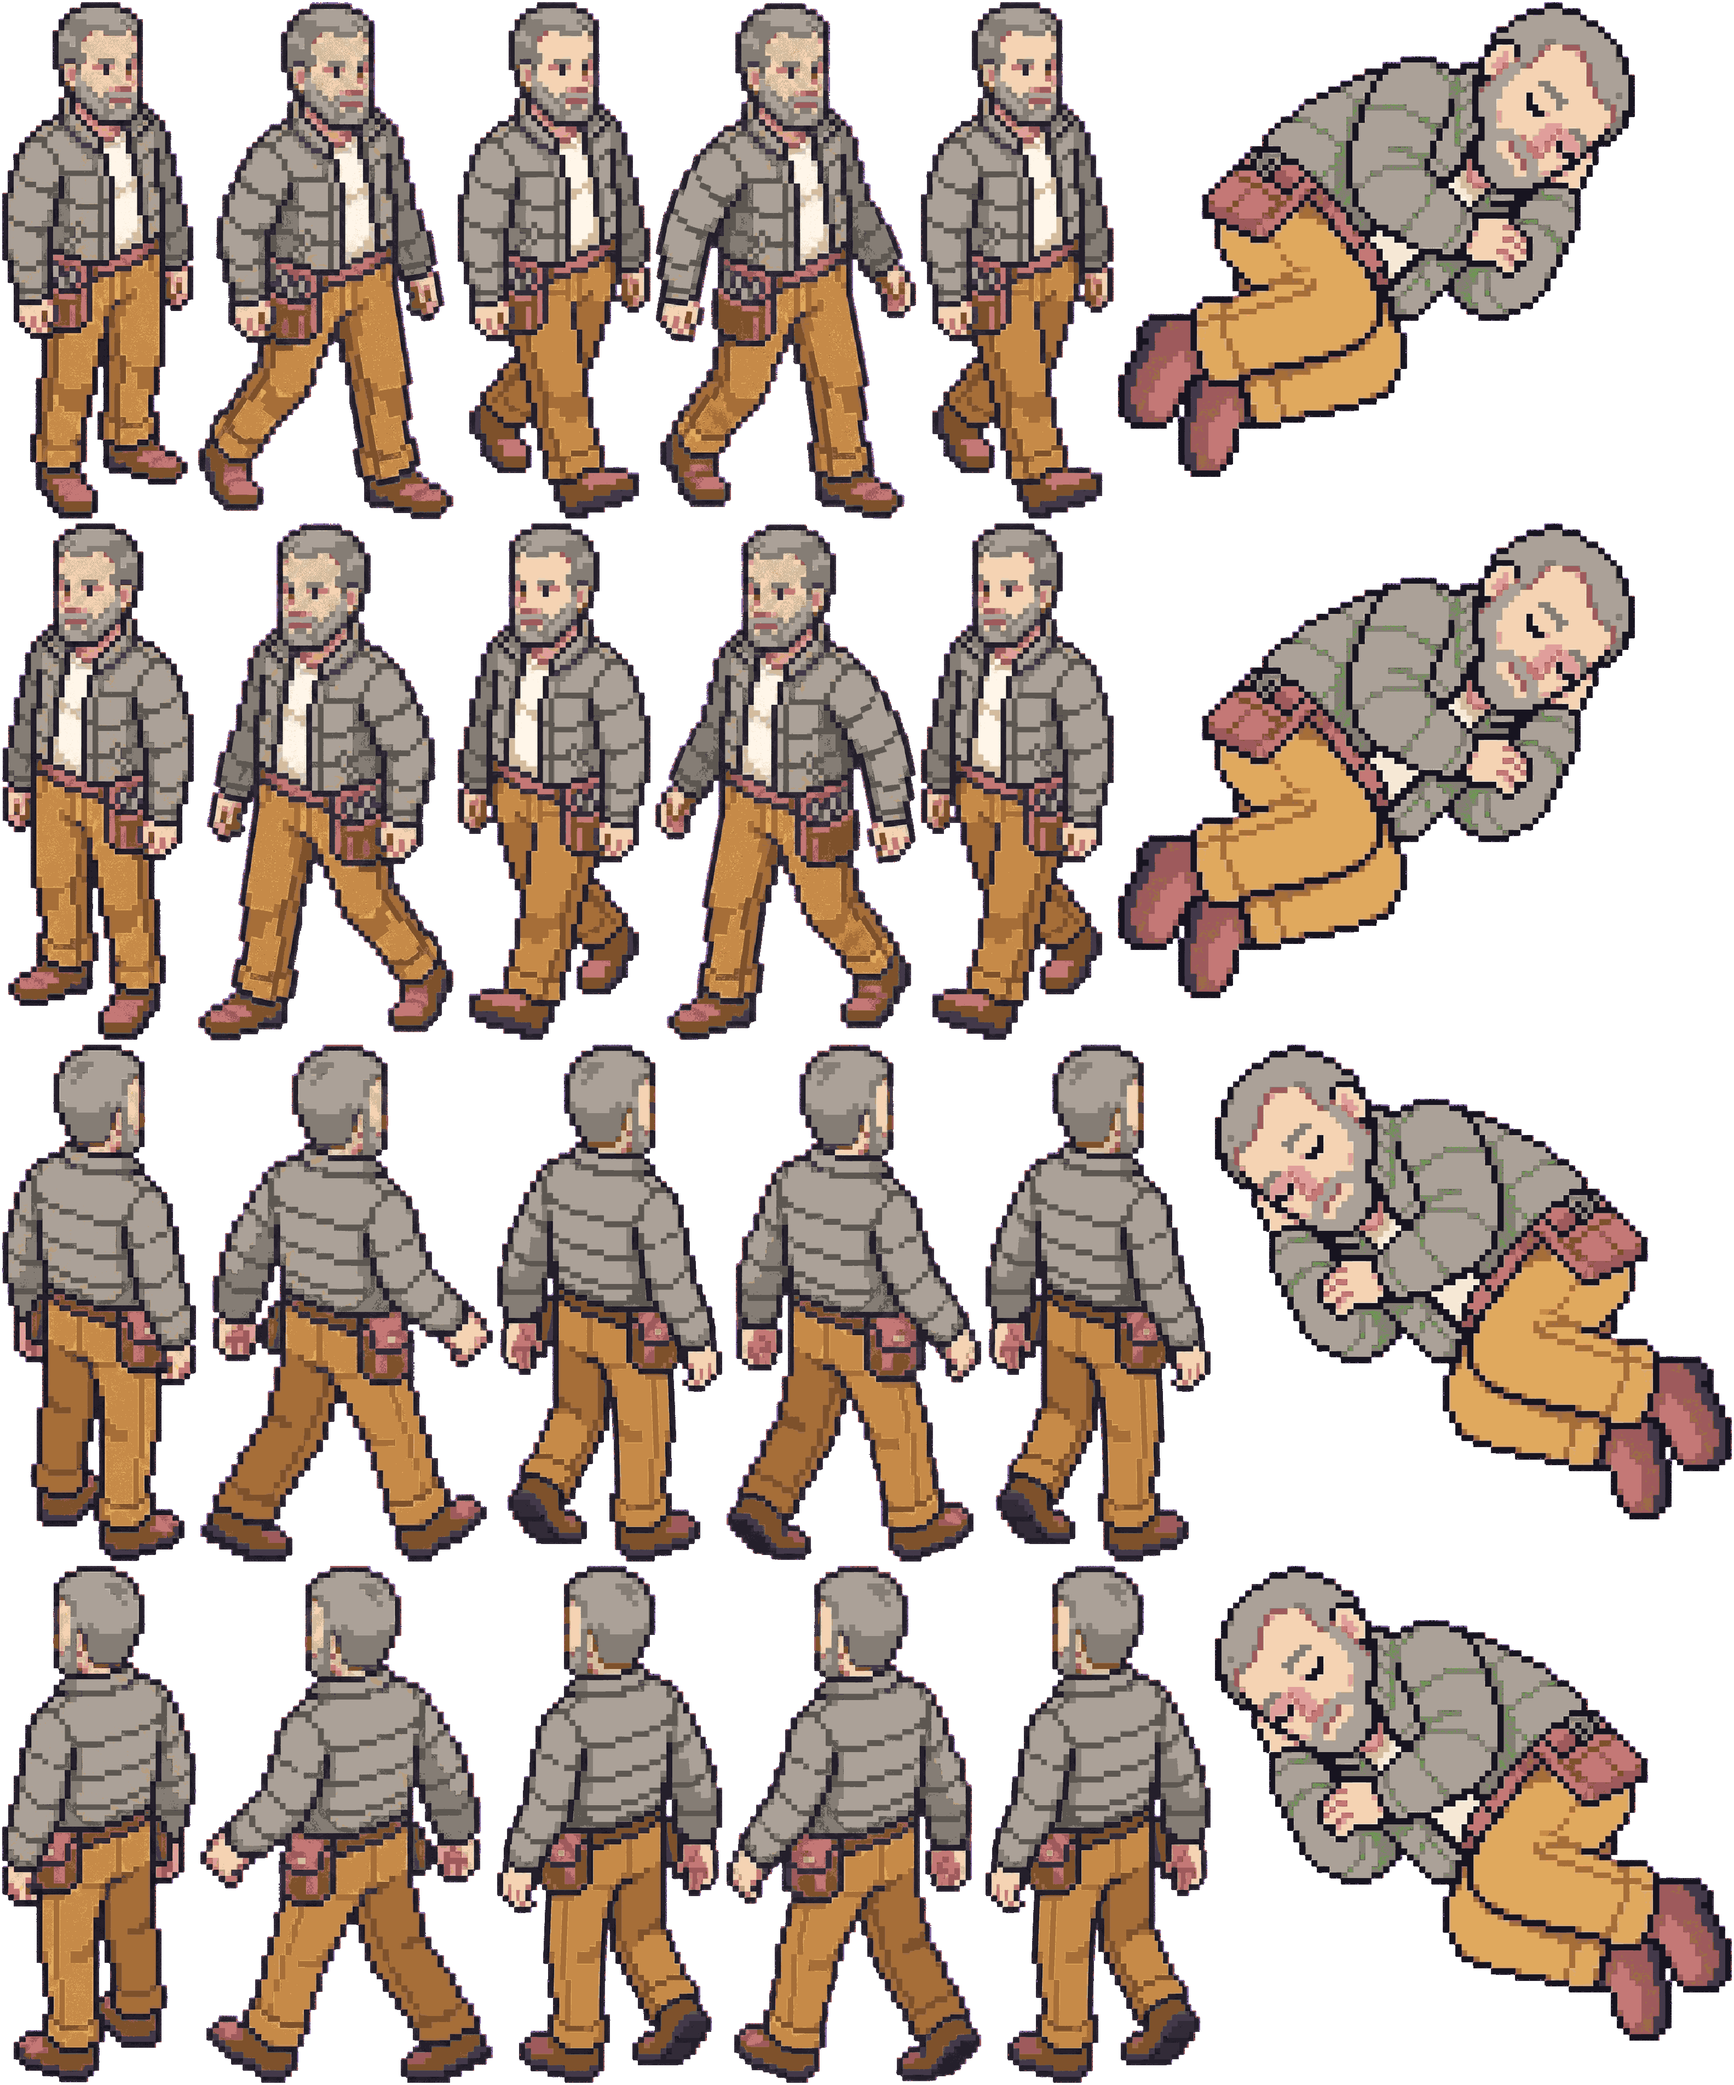
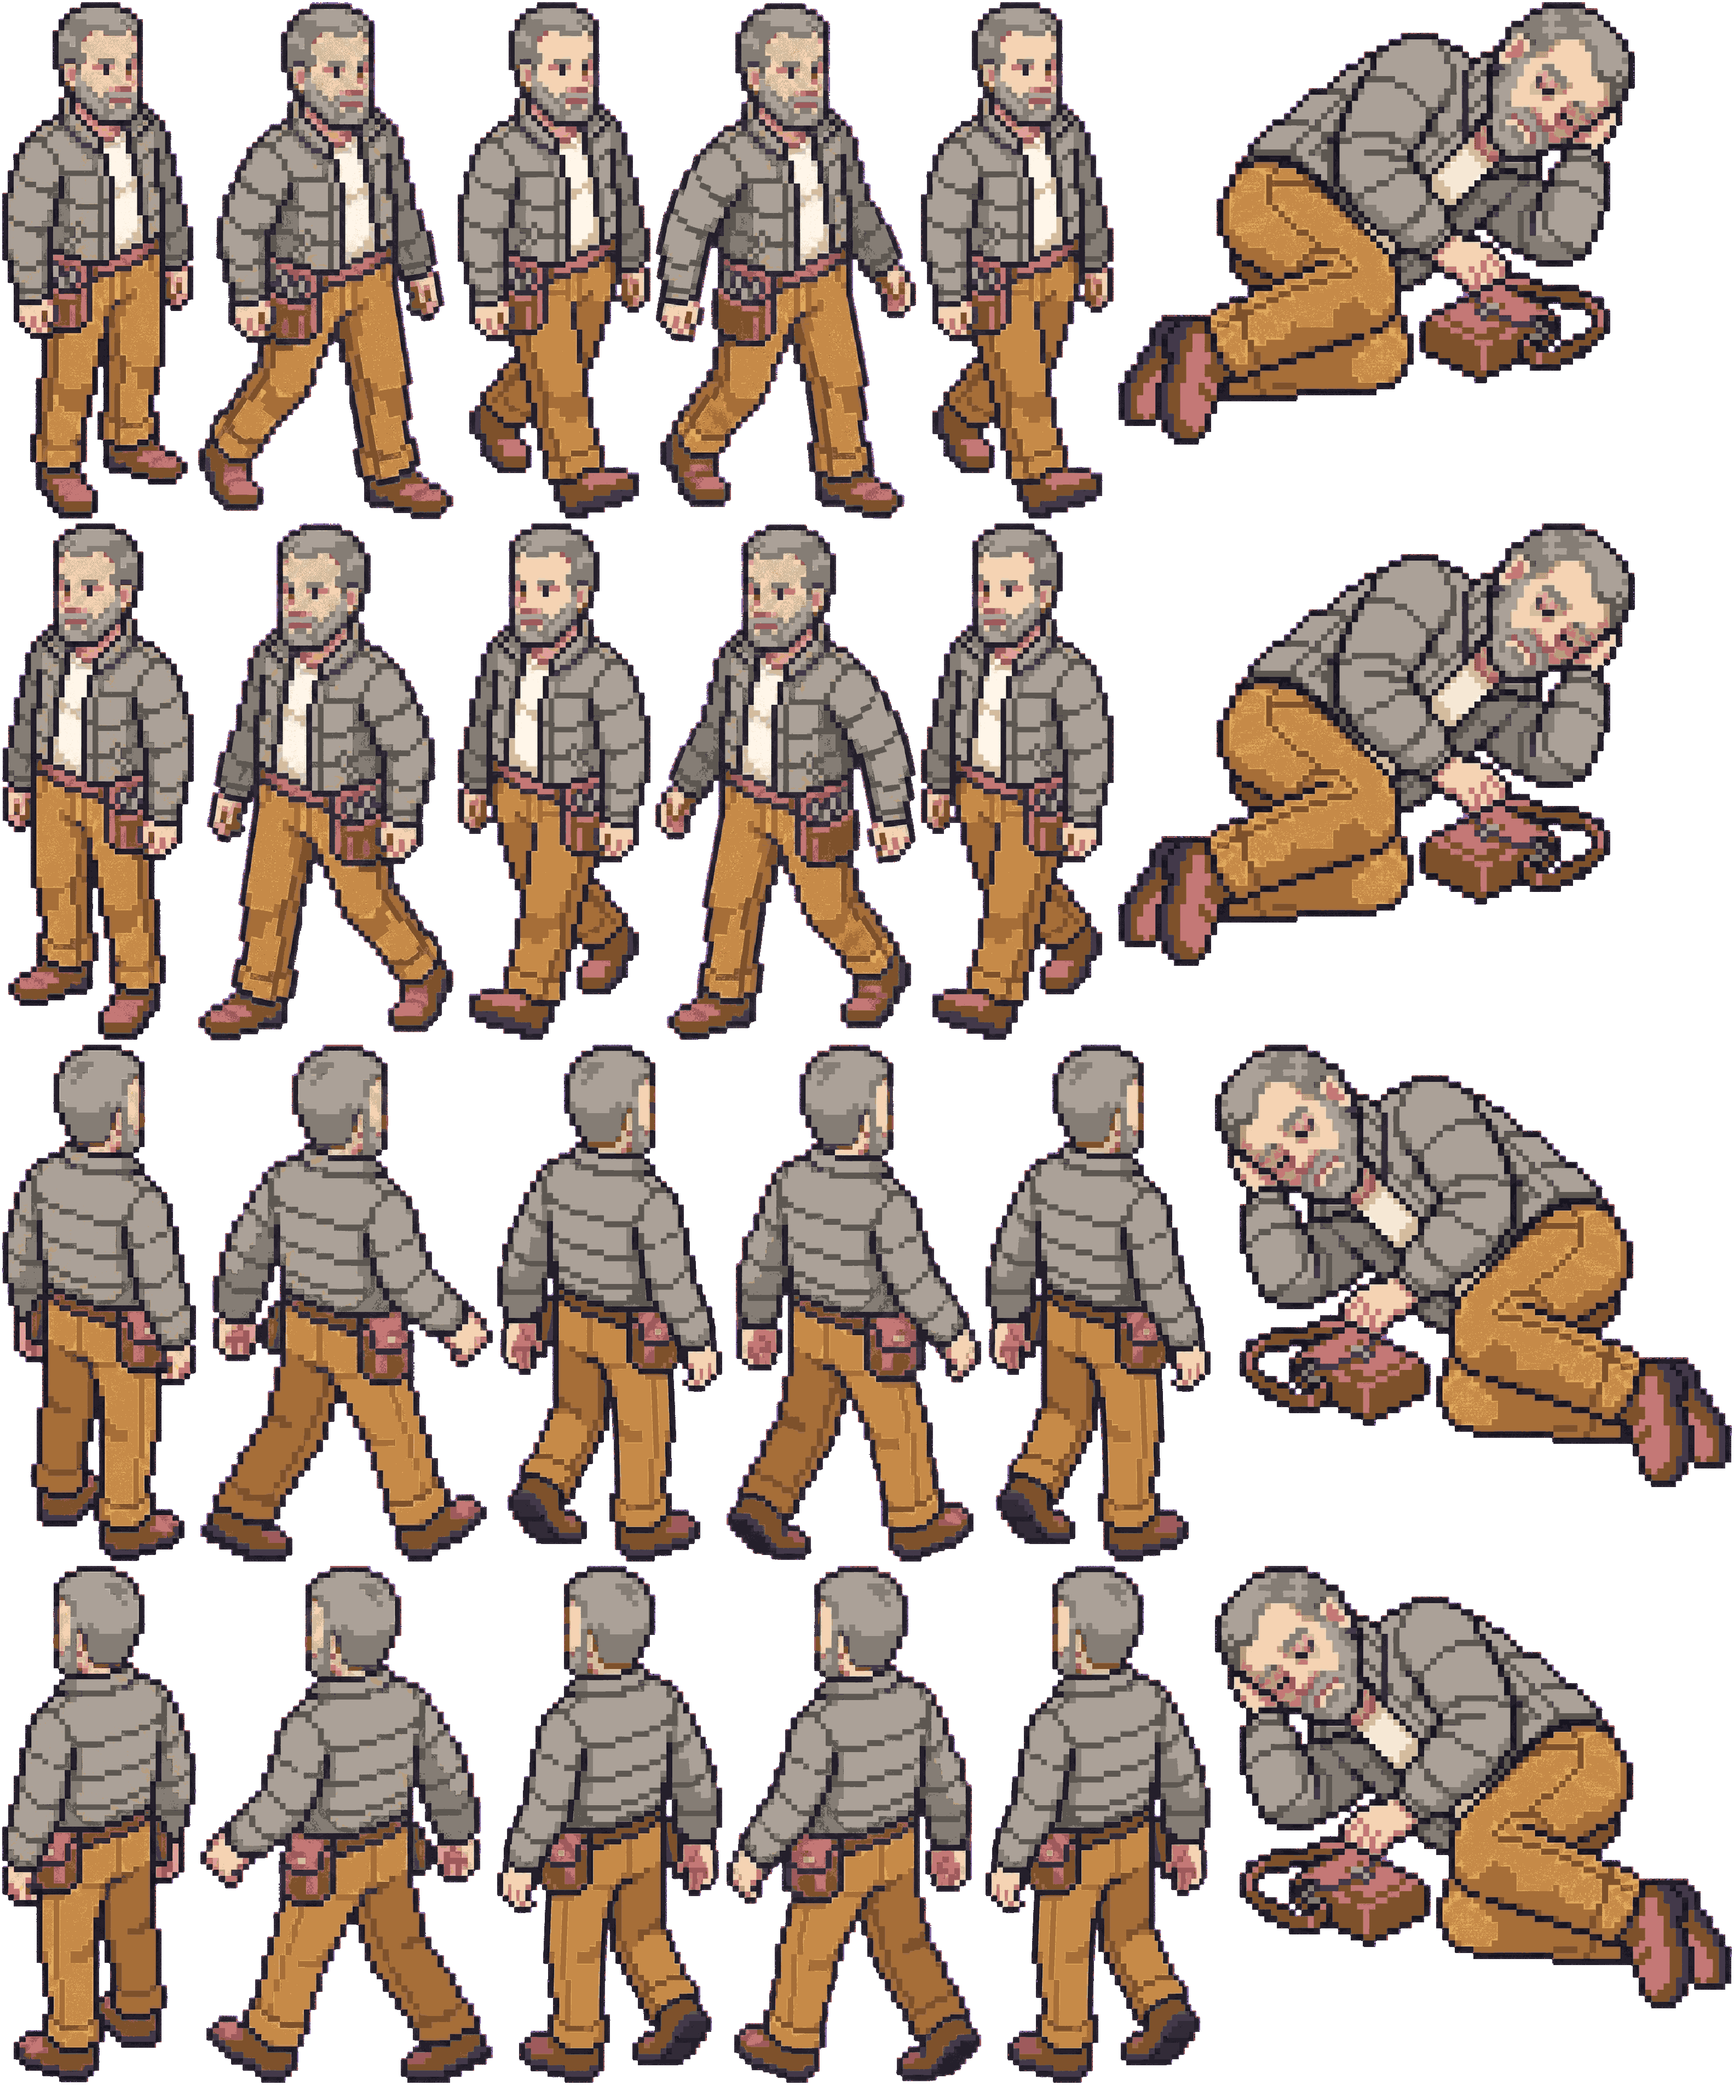
forge-gates T3c: yusuf's sleep is fixed; amara is tried, refused and left pinned
yusuf sleep for $0.2061. Debt: 2 -> 1. It was the clearest case the refusal
message exists for — three cached candidates with three DIFFERENT margins:
palette off by 0.2706, palette off by 0.0500, lying-axis off by 13.68. That
reads "the model is inconsistent here", not "the threshold is tight", and two
more draws proved it. Note what the old policy did with those three: all had
exactly ONE failure, so the least-bad reduce kept the FIRST — which was the
worst margin of the three. Least-bad by count is not least-bad.

★ AND THE AUDIT WAS THE WEAKER GATE THIS TIME. sleepGate (post-hoc) checks
palette and wider-than-tall; sleepCoherenceGateV4 (pre-spend) also checks that
the body lies ALONG the ground diagonal instead of flat across the screen. So
the two gates disagreed in BOTH directions — the generator was missing the head
term on walk frames, the audit was missing the axis on sleep. Both closed. All
five committed sleepers are already in the band (-33.4 -36.1 -37.7 -38.0 -36.2
against -50..-20), so asking cost nothing.

★ AMARA IS TRIED AND DELIBERATELY NOT SHIPPED. Her one remaining debt is the
TACTICAL GEAR repair: contact-b-ne := contact-a-ne, stride 0.0000 by
construction. Seven candidates, $0.3423 spent, two of them clean on every gate
in the package — and BOTH are standing figures, foot span 1.00x and 1.02x the
idle, against 1.30x for her contact-a. Replacing a documented shuffle with an
undocumented STANDING FRAME IN A WALK LOOP is the exact symptom that started
[…]

Changed region(s): [[0.6498, 0.25, 1.0, 0.75], [0.6808, 0.75, 1.0, 1.0], [0.6498, 0.0, 0.9593, 0.25]]

diff --git a/packages/forge/src/castAudit.test.ts b/packages/forge/src/castAudit.test.ts
@@ -49,7 +49,7 @@ import {
   CELL_V2, FEET_Y_V2, POSES_V2, FACINGS, anchorToCanvas, downscaleMajority,
   frameCoherenceGate, mirrorX, sleepGate,
 } from './sheet.js'
-import { strideGateV4 } from './mirror.js'
+import { sleepAxisDeg, sleepAxisGate, strideGateV4 } from './mirror.js'
 import { alphaBinaryGate, paletteGate, soleSilhouetteGate } from './pixelGates.js'
 import { listCommittedCast, type CommittedCharacter } from './castArt.js'
 
@@ -98,11 +98,20 @@ function failuresOf(c: CommittedCharacter, atlas: RawImage): string[] {
   }
   for (const x of sleepGate('sleep', view.get('idle-se')!, view.get('sleep-se')!))
     found.push(`${c.id} sleep ${x.gate}`)
+  // ★ AND THE AXIS, WHICH THE AUDIT WAS NOT ASKING. The head-term gap ran the other way:
+  // `coherenceGateV4` (pre-spend) asked less than `frameCoherenceGate` (post-hoc). For SLEEP
+  // it is the audit that asks less — `sleepGate` checks palette and wider-than-tall, while the
+  // generator's `sleepCoherenceGateV4` also checks that the body lies ALONG the ground diagonal
+  // rather than flat across the screen. A body drawn flat passes `aspect > 1`; three of the
+  // five shipped that way once. All five committed cells are in the band today
+  // (-33.4, -36.1, -37.7, -38.0, -36.2 against -50..-20), so asking costs nothing and the
+  // two gates now ask the same set in both directions.
+  for (const x of sleepAxisGate(view.get('sleep-se')!)) found.push(`${c.id} sleep ${x.gate}`)
   return found
 }
 
 /**
- * ★ THE DEBT, AS OF THIS SWEEP. TWO cells, both in the cast.
+ * ★ THE DEBT, AS OF THIS SWEEP. ONE cell, and it is one this project made on purpose.
  *
  * It was four. `salma ne/contact-a` — the second TACTICAL GEAR, a large brown bundle in her
  * right hand in one frame of four, +24.3 % opaque area against a ±18 % tolerance and WORSE
@@ -126,11 +135,6 @@ export const KNOWN_GATE_DEBT: Record<string, string> = {
   'amara ne stride contact-a~contact-b':
     '0.0000 against 0.1085 — the TACTICAL GEAR repair, by construction',
 
-  // Yusuf's sleep cell shares 53 % of its palette with his idle against a floor of 80 %. A
-  // lying body at gate-view scale is mostly face where a standing one is mostly jacket, so
-  // this may be the gate rather than the art — it is the one of the four to look at last.
-  'yusuf sleep palette':
-    '0.5294 against 0.8000 — sleep vs idle palette, possibly the gate and not the cell',
 }
 
 const cast = listCommittedCast()
@@ -151,8 +155,8 @@ describe('★ the committed cast against the gates as they now behave', () => {
       'this entry passes now — delete it from KNOWN_GATE_DEBT').toEqual([])
   })
 
-  it('★ and the debt is TWO cells, so a jump shows up in the diff', () => {
-    expect(Object.keys(KNOWN_GATE_DEBT)).toHaveLength(2)
+  it('★ and the debt is ONE cell, so a jump shows up in the diff', () => {
+    expect(Object.keys(KNOWN_GATE_DEBT)).toHaveLength(1)
   })
 })
 
@@ -192,5 +196,17 @@ describe('the derived facings are exact mirrors, and the gate still disagrees ac
     expect(disagreements.length,
       'the gate no longer measures its own rounding — widen the sweep to all four facings')
       .toBeGreaterThan(0)
+  })
+})
+
+
+// ★ THE OTHER HALF OF "THE TWO GATES ASK THE SAME SET", stated as a number rather than left in
+// prose: every committed sleeper lies along the ground diagonal, head up-right.
+describe('every committed sleep cell lies along the ground, not across the screen', () => {
+  it.each(cast.map((c) => [c.id, c] as const))('%s', async (id, c) => {
+    const atlas = await decodePng(c.atlas)
+    const deg = sleepAxisDeg(cropper(c, atlas)('sleep-se'))
+    expect(deg, `${id} sleeps at ${deg.toFixed(1)} deg`).toBeGreaterThanOrEqual(-50)
+    expect(deg, `${id} sleeps at ${deg.toFixed(1)} deg`).toBeLessThanOrEqual(-20)
   })
 })
